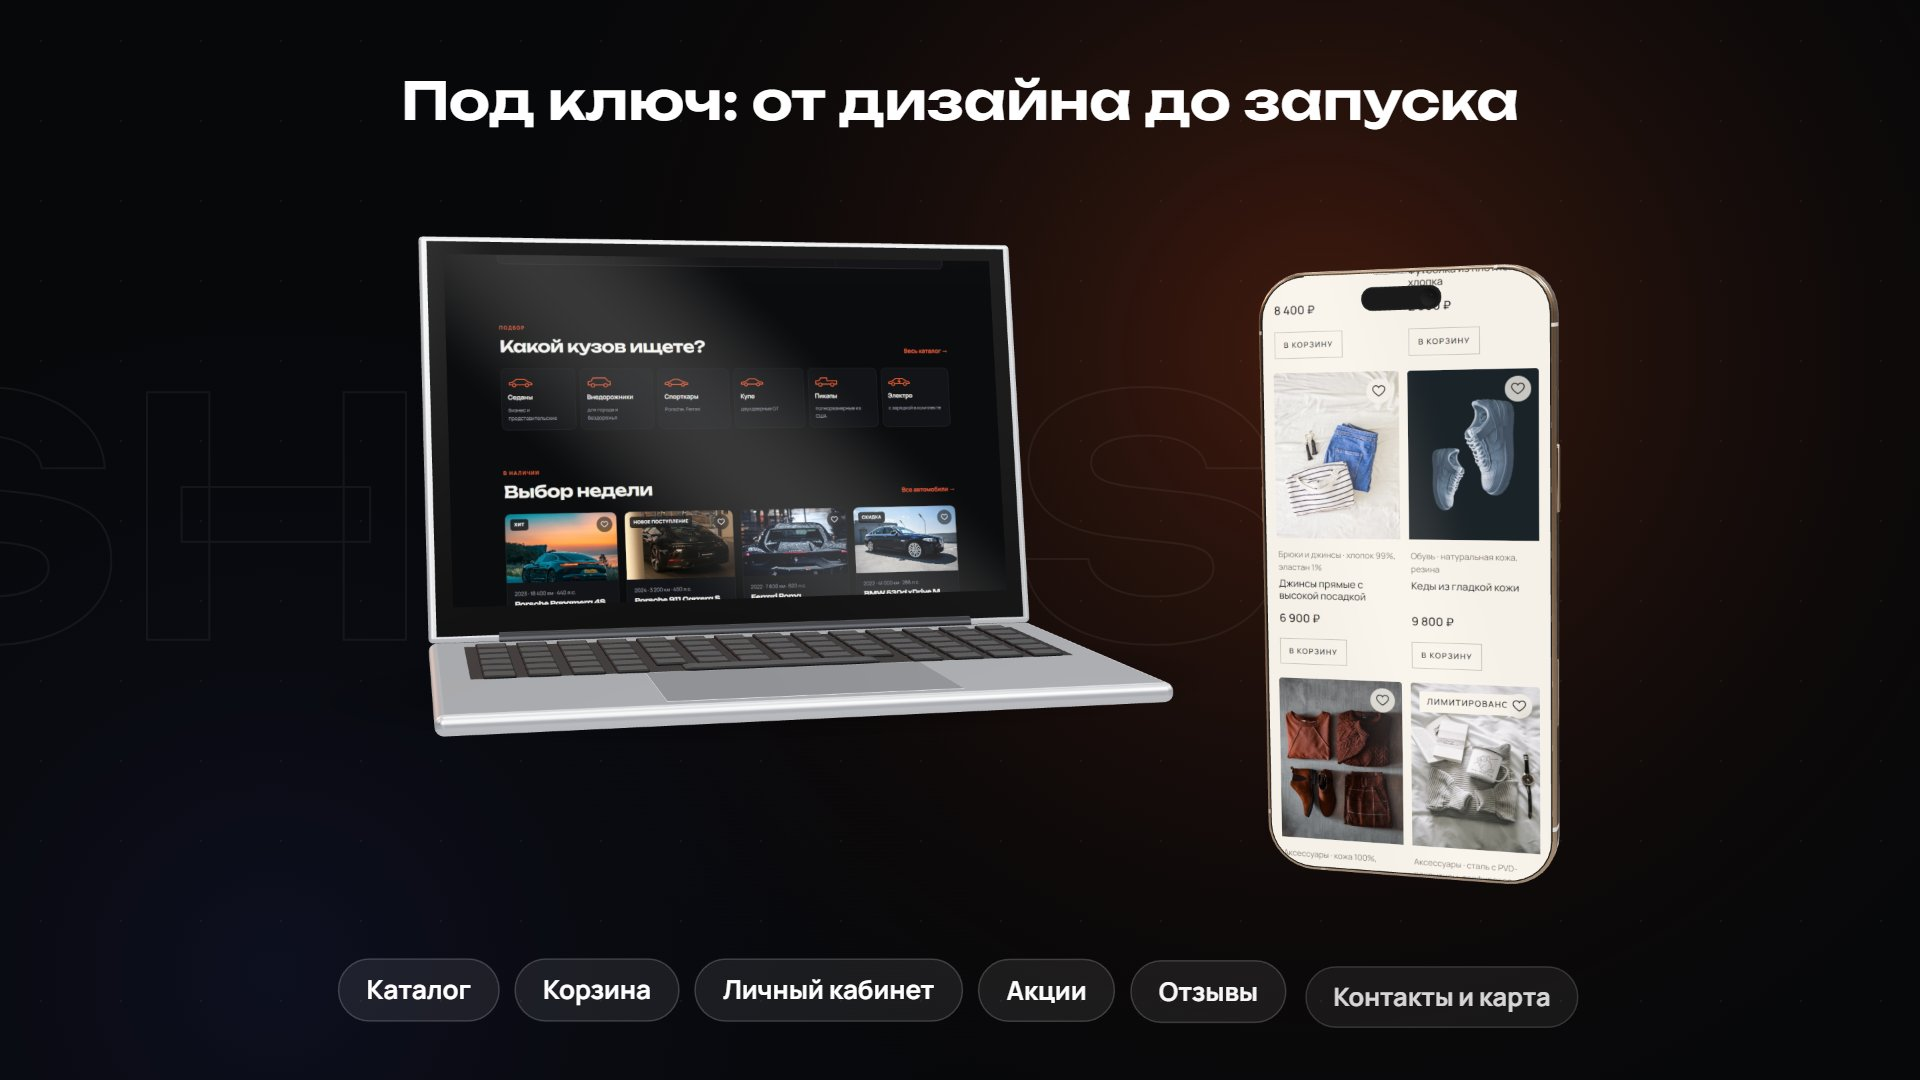
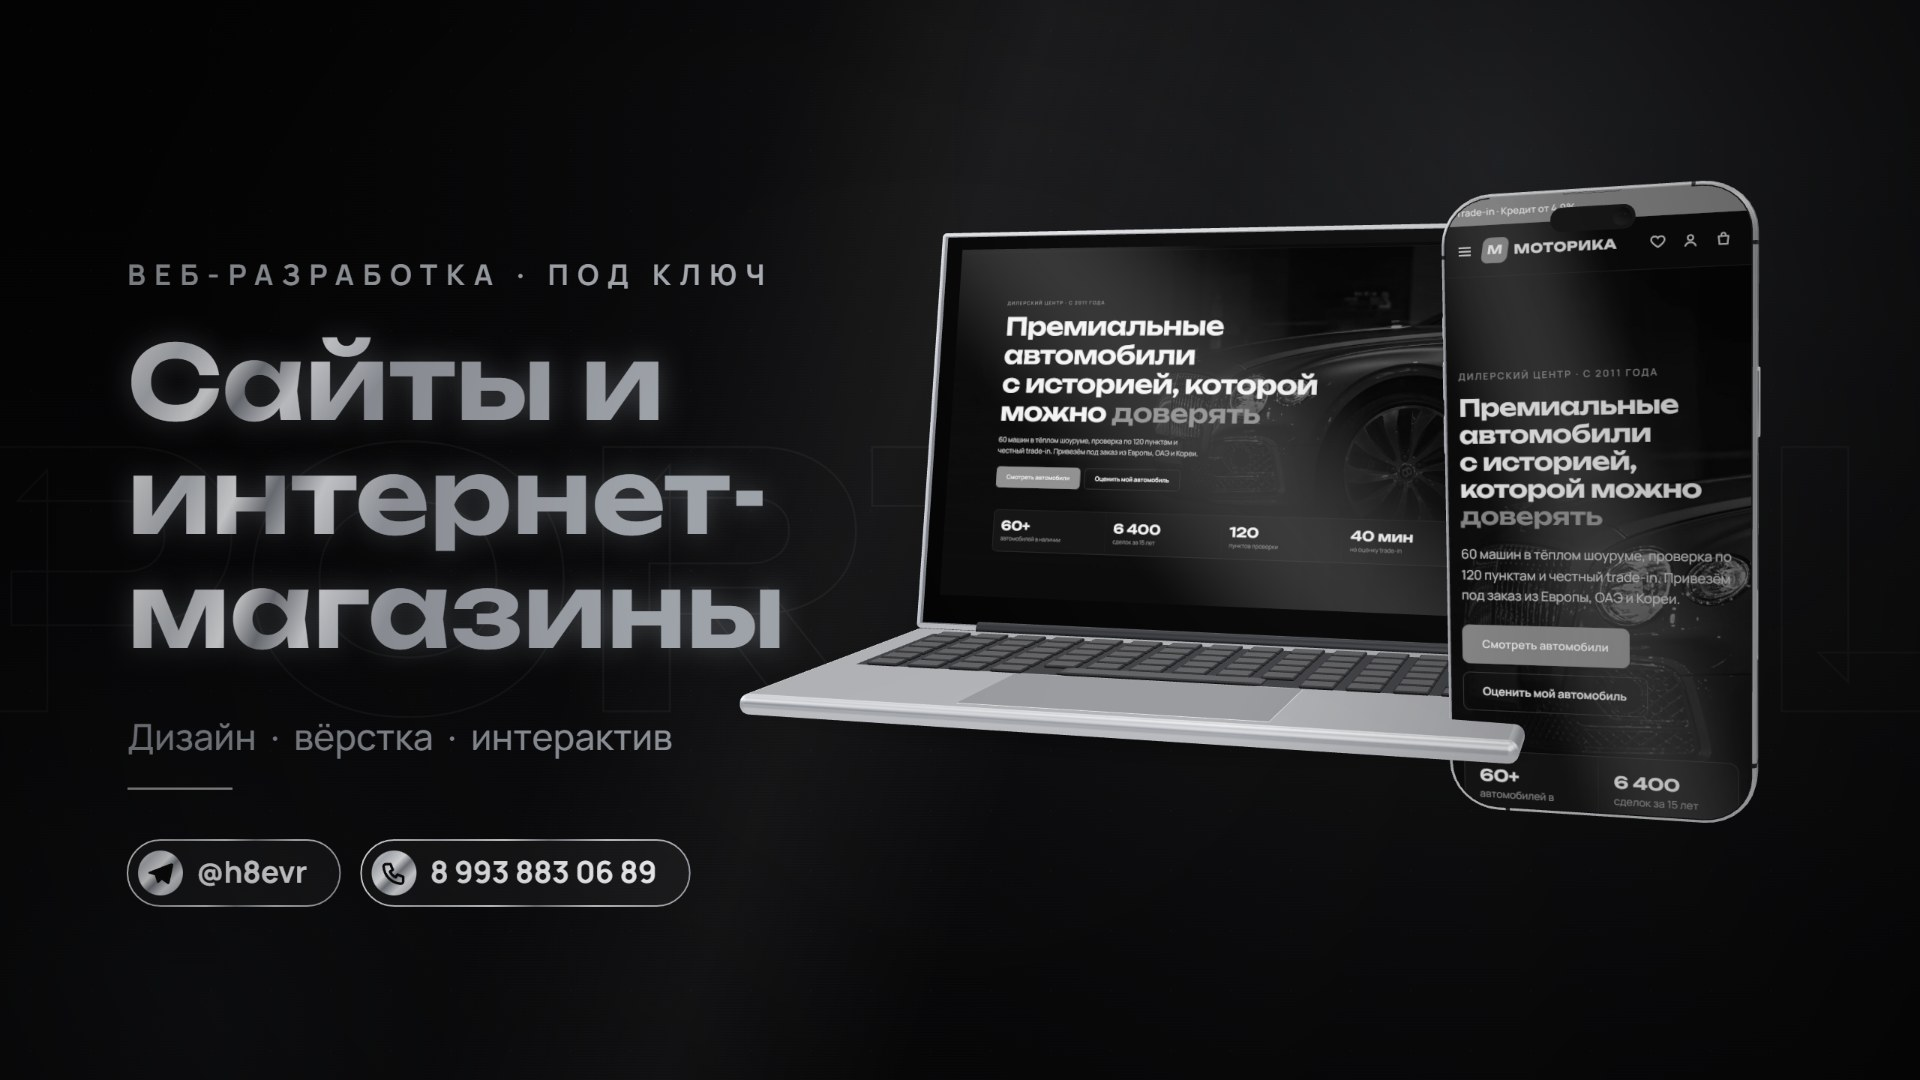
Портфолио в чёрно-серебряной гамме, новая обложка видео

diff --git a/index.html b/index.html
@@ -3,6 +3,7 @@
 <head>
 <meta charset="utf-8">
 <meta name="viewport" content="width=device-width, initial-scale=1">
+<meta name="theme-color" content="#050506">
 <title>Портфолио — интернет-магазины под ключ</title>
 <meta name="description" content="Разработка сайтов и интернет-магазинов: дизайн, вёрстка, интерактив. Примеры: автосалон МОТОРИКА и магазин одежды MIRRA.">
 <meta property="og:title" content="Портфолио — интернет-магазины под ключ">
@@ -10,26 +11,26 @@
 <link rel="preconnect" href="https://fonts.googleapis.com"><link rel="preconnect" href="https://fonts.gstatic.com" crossorigin>
 <link href="https://fonts.googleapis.com/css2?family=Manrope:wght@400;500;600;700&family=Unbounded:wght@500;600&display=swap" rel="stylesheet">
 <style>
-  :root{--bg:#07080a;--surface:#121316;--text:#f3f2ef;--muted:#9a9ca4;--line:rgba(255,255,255,.1);--accent:#ff5a1f;--tg:#229ed9}
+  :root{--bg:#050506;--surface:#121316;--text:#f3f2ef;--muted:#9a9ca4;--line:rgba(255,255,255,.1);--accent:#d9dce1;--silver:#a9adb3;--chrome:linear-gradient(135deg,#ffffff 0%,#c4c8ce 30%,#f6f7f9 48%,#8f939a 62%,#e4e6ea 82%,#a7abb1 100%)}
   *{box-sizing:border-box}
   html{scroll-behavior:smooth}
   body{margin:0;background:var(--bg);color:var(--text);font:16px/1.6 Manrope,system-ui,sans-serif;-webkit-font-smoothing:antialiased;
-    background-image:radial-gradient(circle at 80% 0%,rgba(255,90,31,.16),transparent 45%),radial-gradient(circle at 0% 60%,rgba(80,100,255,.08),transparent 40%)}
+    background-image:radial-gradient(circle at 80% 0%,rgba(210,216,226,.13),transparent 45%),radial-gradient(circle at 0% 60%,rgba(160,170,185,.06),transparent 40%)}
   a{color:inherit;text-decoration:none}
   .wrap{max-width:1180px;margin:0 auto;padding:0 16px}
   @media(min-width:768px){.wrap{padding:0 32px}}
   h1,h2,h3{font-family:Unbounded,sans-serif;font-weight:600;letter-spacing:-.02em;line-height:1.1;margin:0}
-  .eyebrow{display:inline-block;font-size:.78rem;font-weight:700;letter-spacing:.2em;text-transform:uppercase;color:var(--accent);margin-bottom:14px}
+  .eyebrow{display:inline-block;font-size:.78rem;font-weight:700;letter-spacing:.2em;text-transform:uppercase;color:var(--silver);margin-bottom:14px}
   .muted{color:var(--muted)}
 
   /* кнопки связи */
   .btn{display:inline-flex;align-items:center;justify-content:center;gap:10px;padding:14px 22px;border-radius:14px;font-weight:700;font-size:.98rem;white-space:nowrap;transition:transform .15s,box-shadow .2s,background .2s}
   .btn:hover{transform:translateY(-2px)}
   .btn svg{width:20px;height:20px;flex:none}
-  .btn-phone{background:var(--accent);color:#fff;box-shadow:0 10px 30px rgba(255,90,31,.35)}
-  .btn-phone:hover{box-shadow:0 14px 40px rgba(255,90,31,.5)}
-  .btn-tg{background:var(--tg);color:#fff;box-shadow:0 10px 30px rgba(34,158,217,.3)}
-  .btn-tg:hover{box-shadow:0 14px 40px rgba(34,158,217,.45)}
+  .btn-phone{background:var(--chrome);color:#0b0b0c;box-shadow:0 10px 30px rgba(220,228,240,.14)}
+  .btn-phone:hover{box-shadow:0 14px 40px rgba(220,228,240,.28)}
+  .btn-tg{background:rgba(255,255,255,.06);color:#f2f3f5;border:1px solid rgba(255,255,255,.35)}
+  .btn-tg:hover{background:rgba(255,255,255,.12);border-color:rgba(255,255,255,.6)}
   .btn-ghost{border:1px solid var(--line);background:rgba(255,255,255,.04)}
 
   /* шапка */
@@ -45,14 +46,14 @@
   /* hero + видео */
   .hero{padding-top:48px;padding-bottom:32px}
   .hero h1{font-size:clamp(2rem,6vw,4rem);max-width:900px}
-  .hero h1 em{font-style:normal;color:var(--accent)}
+  .hero h1 em,.contact h2 em{font-style:normal;background:var(--chrome);-webkit-background-clip:text;background-clip:text;color:transparent}
   .hero p{max-width:620px;font-size:1.1rem;color:var(--muted);margin:18px 0 28px}
   .hero-actions{display:flex;gap:10px;flex-wrap:wrap}
   .video{position:relative;margin:40px 0 0;border-radius:22px;overflow:hidden;border:1px solid var(--line);background:#000;box-shadow:0 40px 100px rgba(0,0,0,.6)}
   .video video{display:block;width:100%;height:auto;aspect-ratio:16/9}
   .video-play{position:absolute;inset:0;display:grid;place-items:center;background:linear-gradient(180deg,rgba(0,0,0,0) 40%,rgba(0,0,0,.45));border:0;cursor:pointer;color:#fff;font:inherit}
   .video-play span{display:flex;align-items:center;gap:12px;padding:16px 26px;border-radius:999px;background:rgba(255,255,255,.14);backdrop-filter:blur(10px);font-weight:700;border:1px solid rgba(255,255,255,.25);transition:transform .2s,background .2s}
-  .video-play:hover span{transform:scale(1.05);background:rgba(255,90,31,.85)}
+  .video-play:hover span{transform:scale(1.05);background:var(--chrome);color:#0b0b0c}
   .video-play svg{width:22px;height:22px}
   .video.playing .video-play{display:none}
 
@@ -62,28 +63,27 @@
   .section-head h2{font-size:clamp(1.6rem,4vw,2.5rem)}
   .grid{display:grid;gap:24px;grid-template-columns:repeat(auto-fit,minmax(min(100%,420px),1fr))}
   .card{display:block;background:var(--surface);border:1px solid var(--line);border-radius:20px;overflow:hidden;transition:transform .25s,box-shadow .25s,border-color .25s}
-  .card:hover{transform:translateY(-4px);box-shadow:0 24px 60px rgba(0,0,0,.5);border-color:rgba(255,255,255,.2)}
-  .card img{width:100%;aspect-ratio:16/10;object-fit:cover;display:block}
+  .card:hover{transform:translateY(-4px);box-shadow:0 24px 60px rgba(0,0,0,.5);border-color:rgba(217,220,225,.4)}
+  .card img{width:100%;aspect-ratio:16/10;object-fit:cover;display:block;filter:grayscale(1) contrast(1.05);transition:filter .4s}
+  .card:hover img{filter:none}
   .card-body{padding:22px}
   .card-body h3{font-size:1.3rem;margin-bottom:6px}
   .tags{display:flex;flex-wrap:wrap;gap:8px;margin-top:14px}
   .tags span{font-size:.8rem;padding:5px 11px;border-radius:999px;border:1px solid var(--line);color:var(--muted)}
-  .open{display:inline-flex;margin-top:16px;color:var(--accent);font-weight:700}
+  .open{display:inline-flex;margin-top:16px;color:var(--accent);font-weight:700;border-bottom:1px solid rgba(217,220,225,.35)}
 
   /* контакты */
-  .contact{display:grid;gap:28px;padding:36px 24px;border-radius:26px;border:1px solid var(--line);background:radial-gradient(circle at 90% 10%,rgba(255,90,31,.25),transparent 50%),var(--surface)}
+  .contact{display:grid;gap:28px;padding:36px 24px;border-radius:26px;border:1px solid var(--line);background:radial-gradient(circle at 90% 10%,rgba(210,216,226,.16),transparent 50%),var(--surface)}
   @media(min-width:900px){.contact{grid-template-columns:1.1fr 1fr;align-items:center;padding:56px}}
   .contact h2{font-size:clamp(1.8rem,4.5vw,3rem)}
-  .contact h2 em{font-style:normal;color:var(--accent)}
-  .contact p{color:var(--muted);margin:14px 0 0;max-width:460px}
+    .contact p{color:var(--muted);margin:14px 0 0;max-width:460px}
   .contact-cards{display:grid;gap:14px}
   .contact-card{display:flex;align-items:center;gap:18px;padding:18px 20px;border-radius:20px;border:1px solid var(--line);background:rgba(255,255,255,.04);transition:transform .2s,border-color .2s,background .2s}
   .contact-card:hover{transform:translateY(-2px);border-color:rgba(255,255,255,.25);background:rgba(255,255,255,.07)}
   .contact-card .ic{width:58px;height:58px;border-radius:50%;display:grid;place-items:center;flex:none;color:#fff}
   .contact-card .ic svg{width:26px;height:26px}
-  .ic-phone{background:linear-gradient(135deg,#ff7a45,#e5400a);box-shadow:0 0 30px rgba(255,90,31,.45)}
-  .ic-tg{background:linear-gradient(135deg,#37bbfe,#007dbb);box-shadow:0 0 30px rgba(34,158,217,.45)}
-  .contact-card small{display:block;font-size:.75rem;font-weight:700;letter-spacing:.16em;text-transform:uppercase;color:var(--muted)}
+  .ic-phone,.ic-tg{background:var(--chrome);color:#0b0b0c!important;box-shadow:0 0 28px rgba(220,228,240,.22)}
+    .contact-card small{display:block;font-size:.75rem;font-weight:700;letter-spacing:.16em;text-transform:uppercase;color:var(--muted)}
   .contact-card b{display:block;font-family:Unbounded,sans-serif;font-weight:600;font-size:clamp(1rem,4.4vw,1.6rem);white-space:nowrap}
   .contact-card .arrow{margin-left:auto;color:var(--muted);font-size:1.4rem}
 
